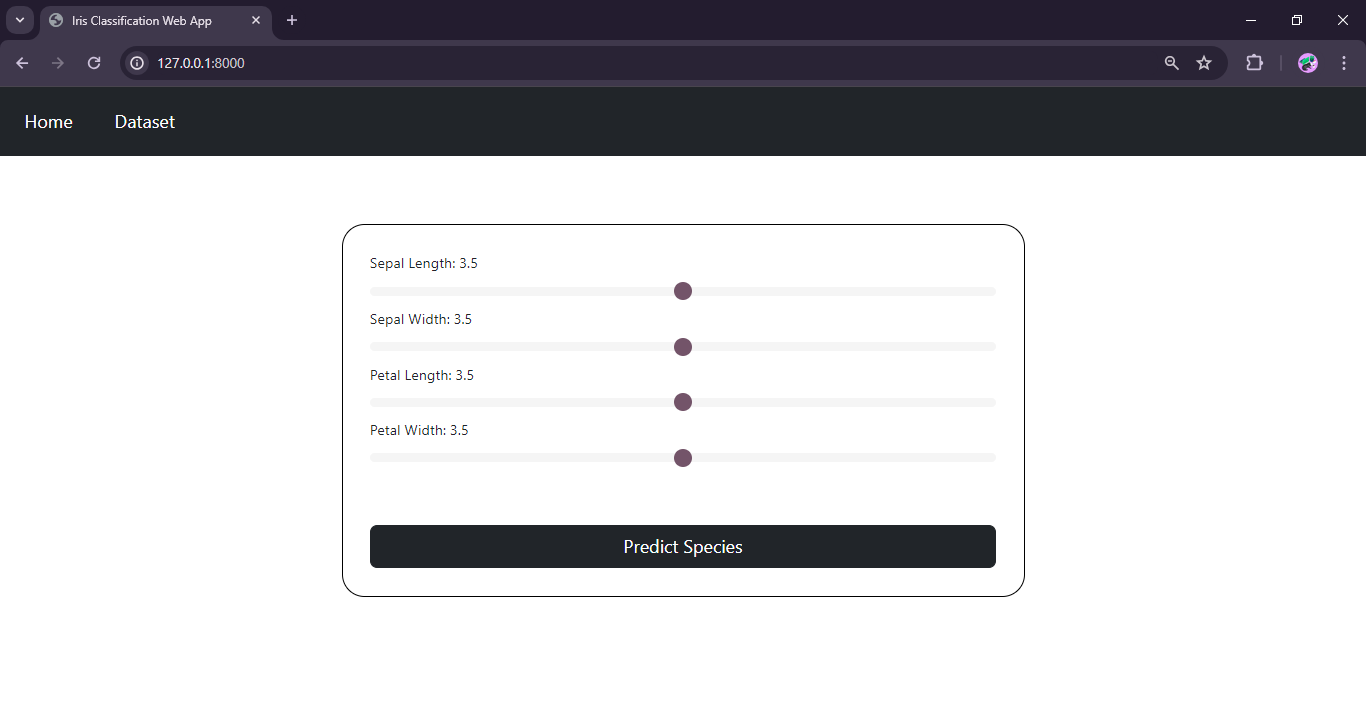
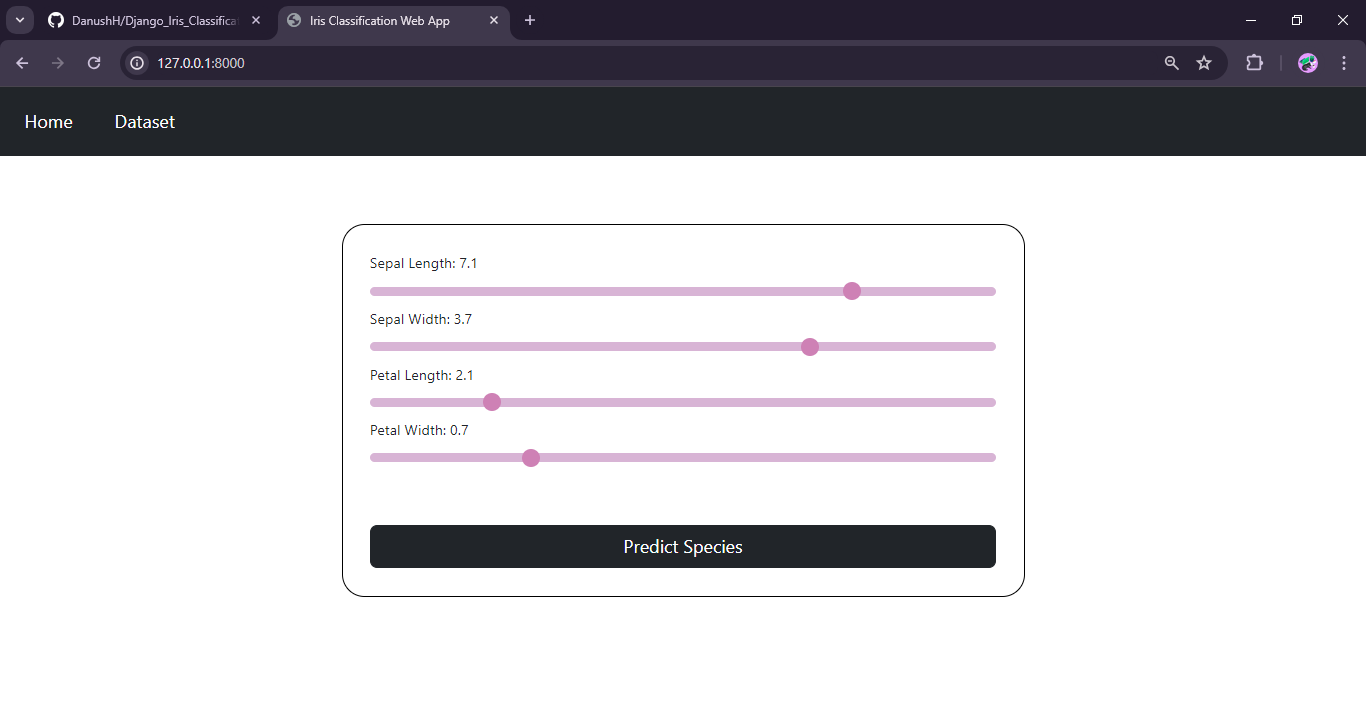
Add media files

diff --git a/irisproject/irisapp/static/css/styles.css b/irisproject/irisapp/static/css/styles.css
@@ -56,11 +56,10 @@ tbody {
     appearance: none;
     height: 10px;
     border-radius: 5px;
-    background: #f1f1f1;
+    background: #c794c3;
     outline: none;
     opacity: 0.7;
     margin-bottom: 25px;
-
 }
 
 .custom-range::-webkit-slider-thumb {
@@ -69,6 +68,6 @@ tbody {
     width: 20px;
     height: 20px;
     border-radius: 50%;
-    background: #380b29;
+    background: #b94b95;
     cursor: pointer;
 }
